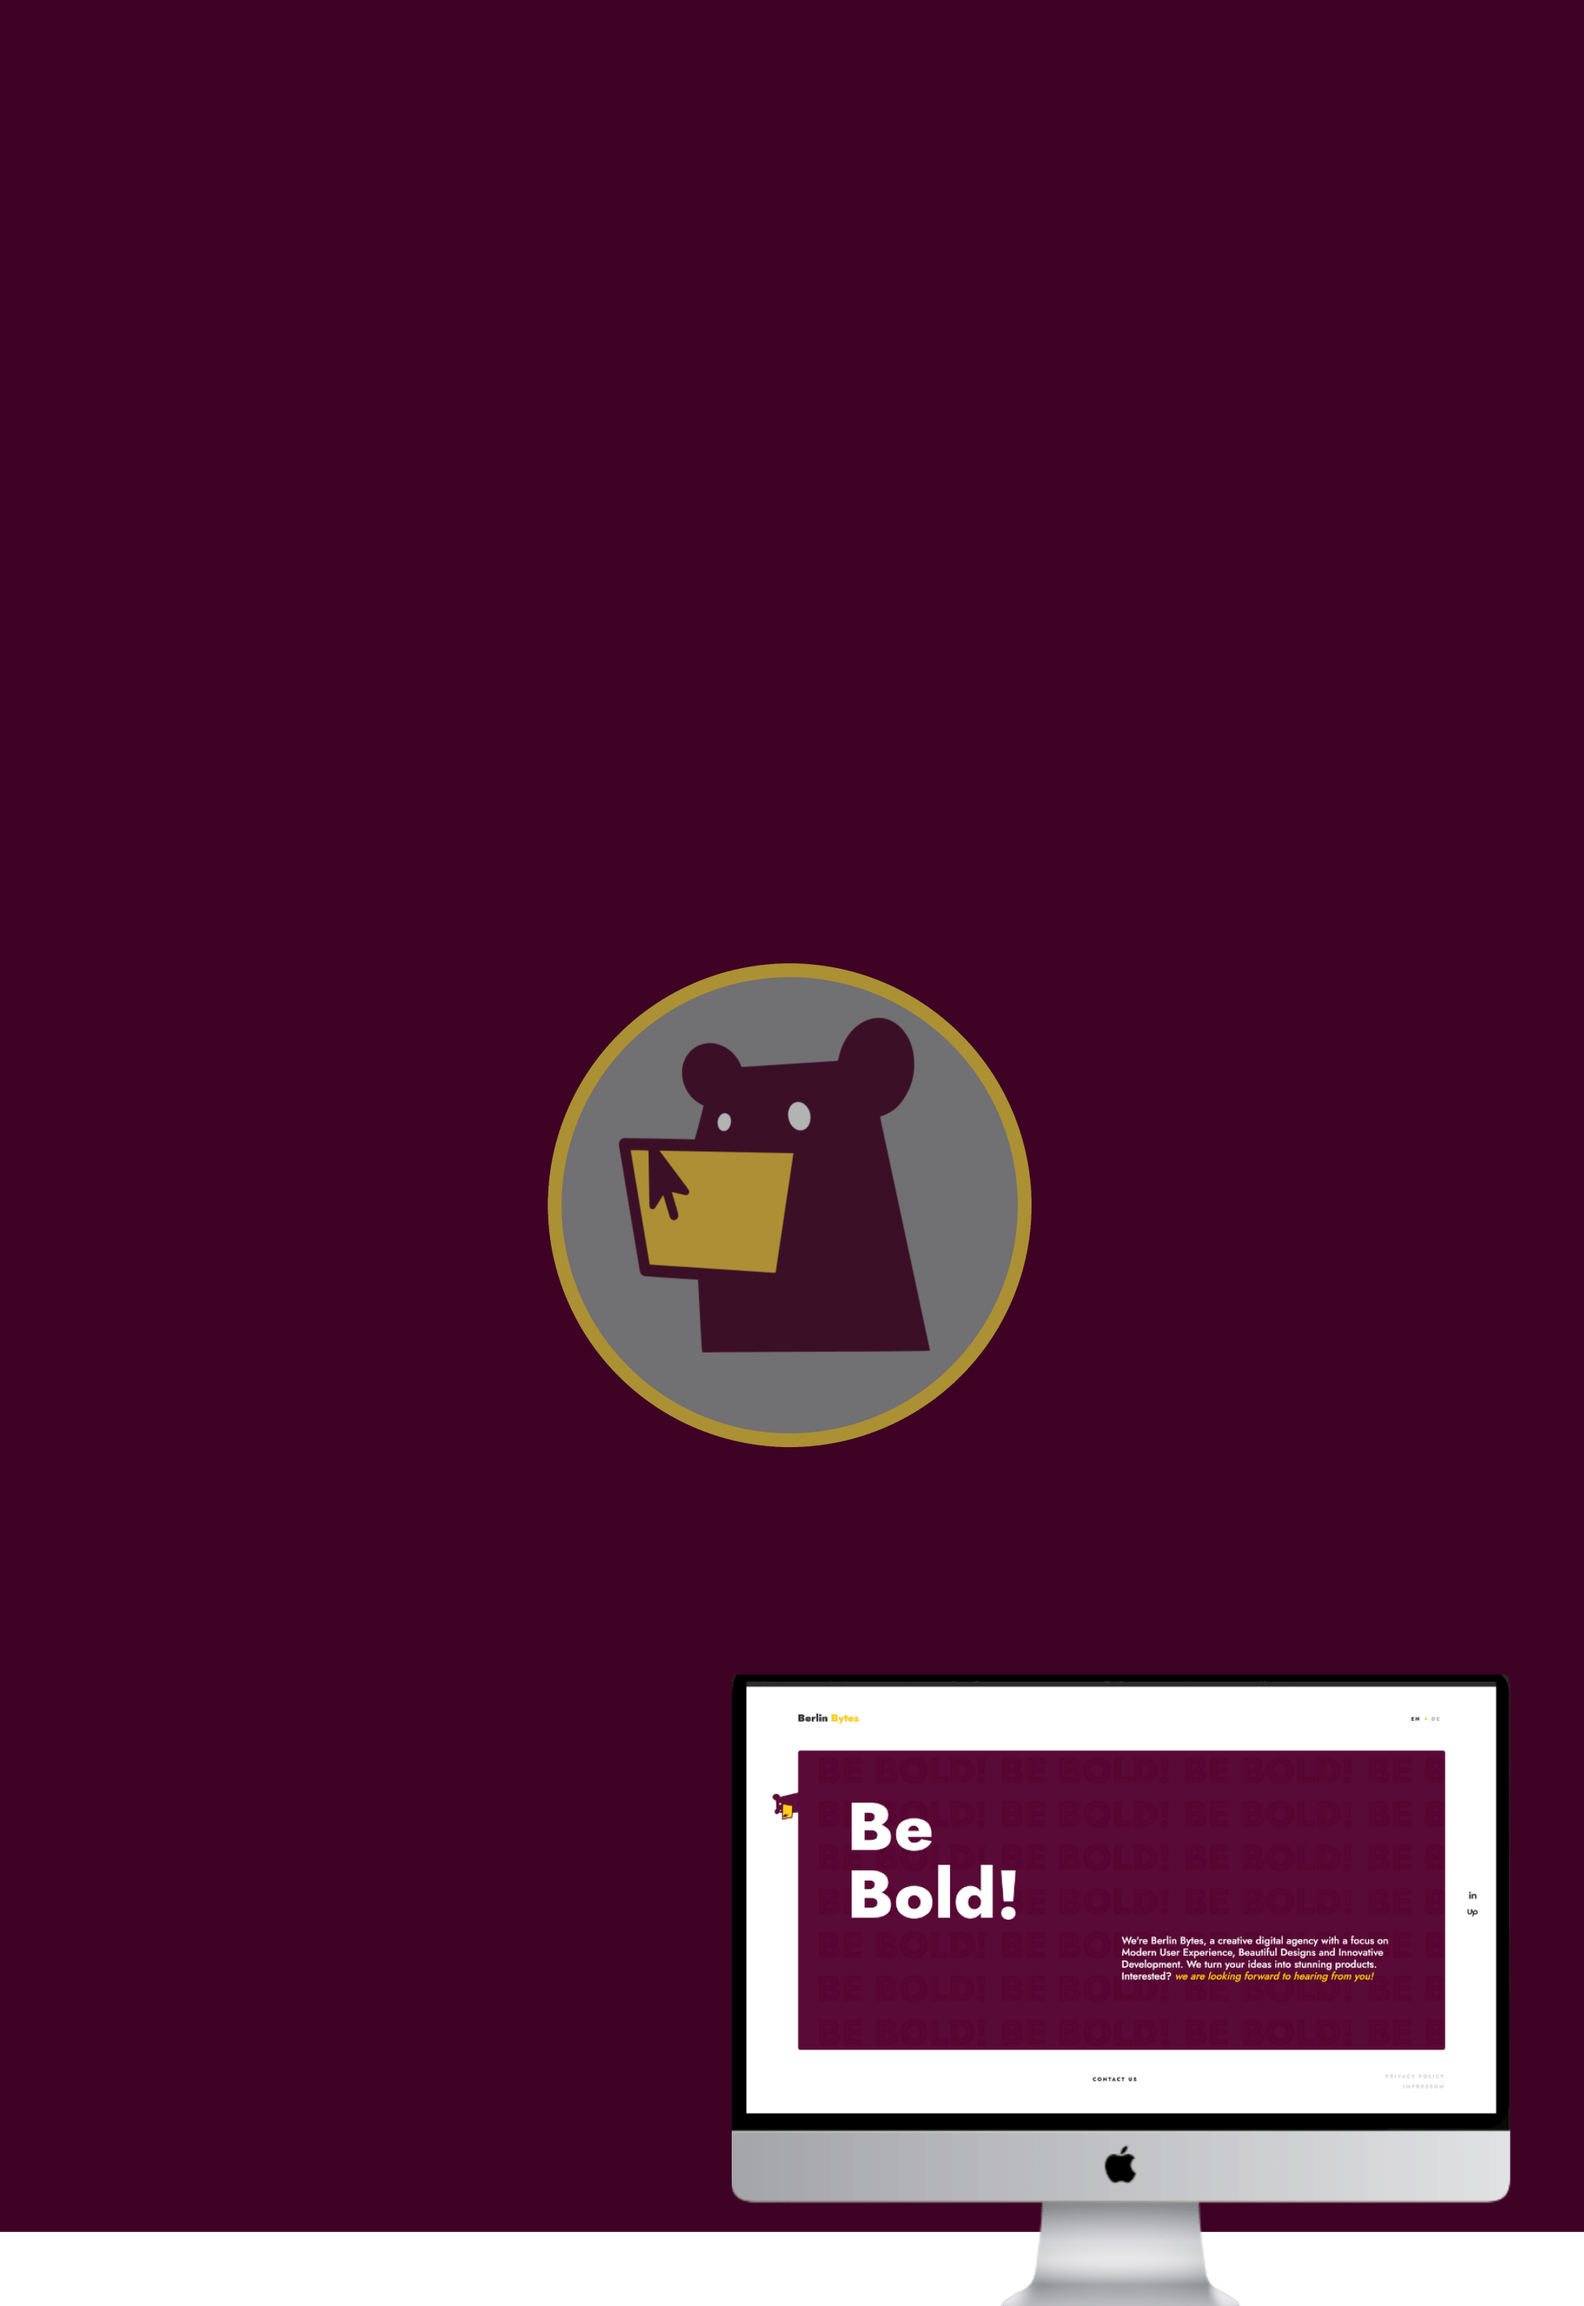
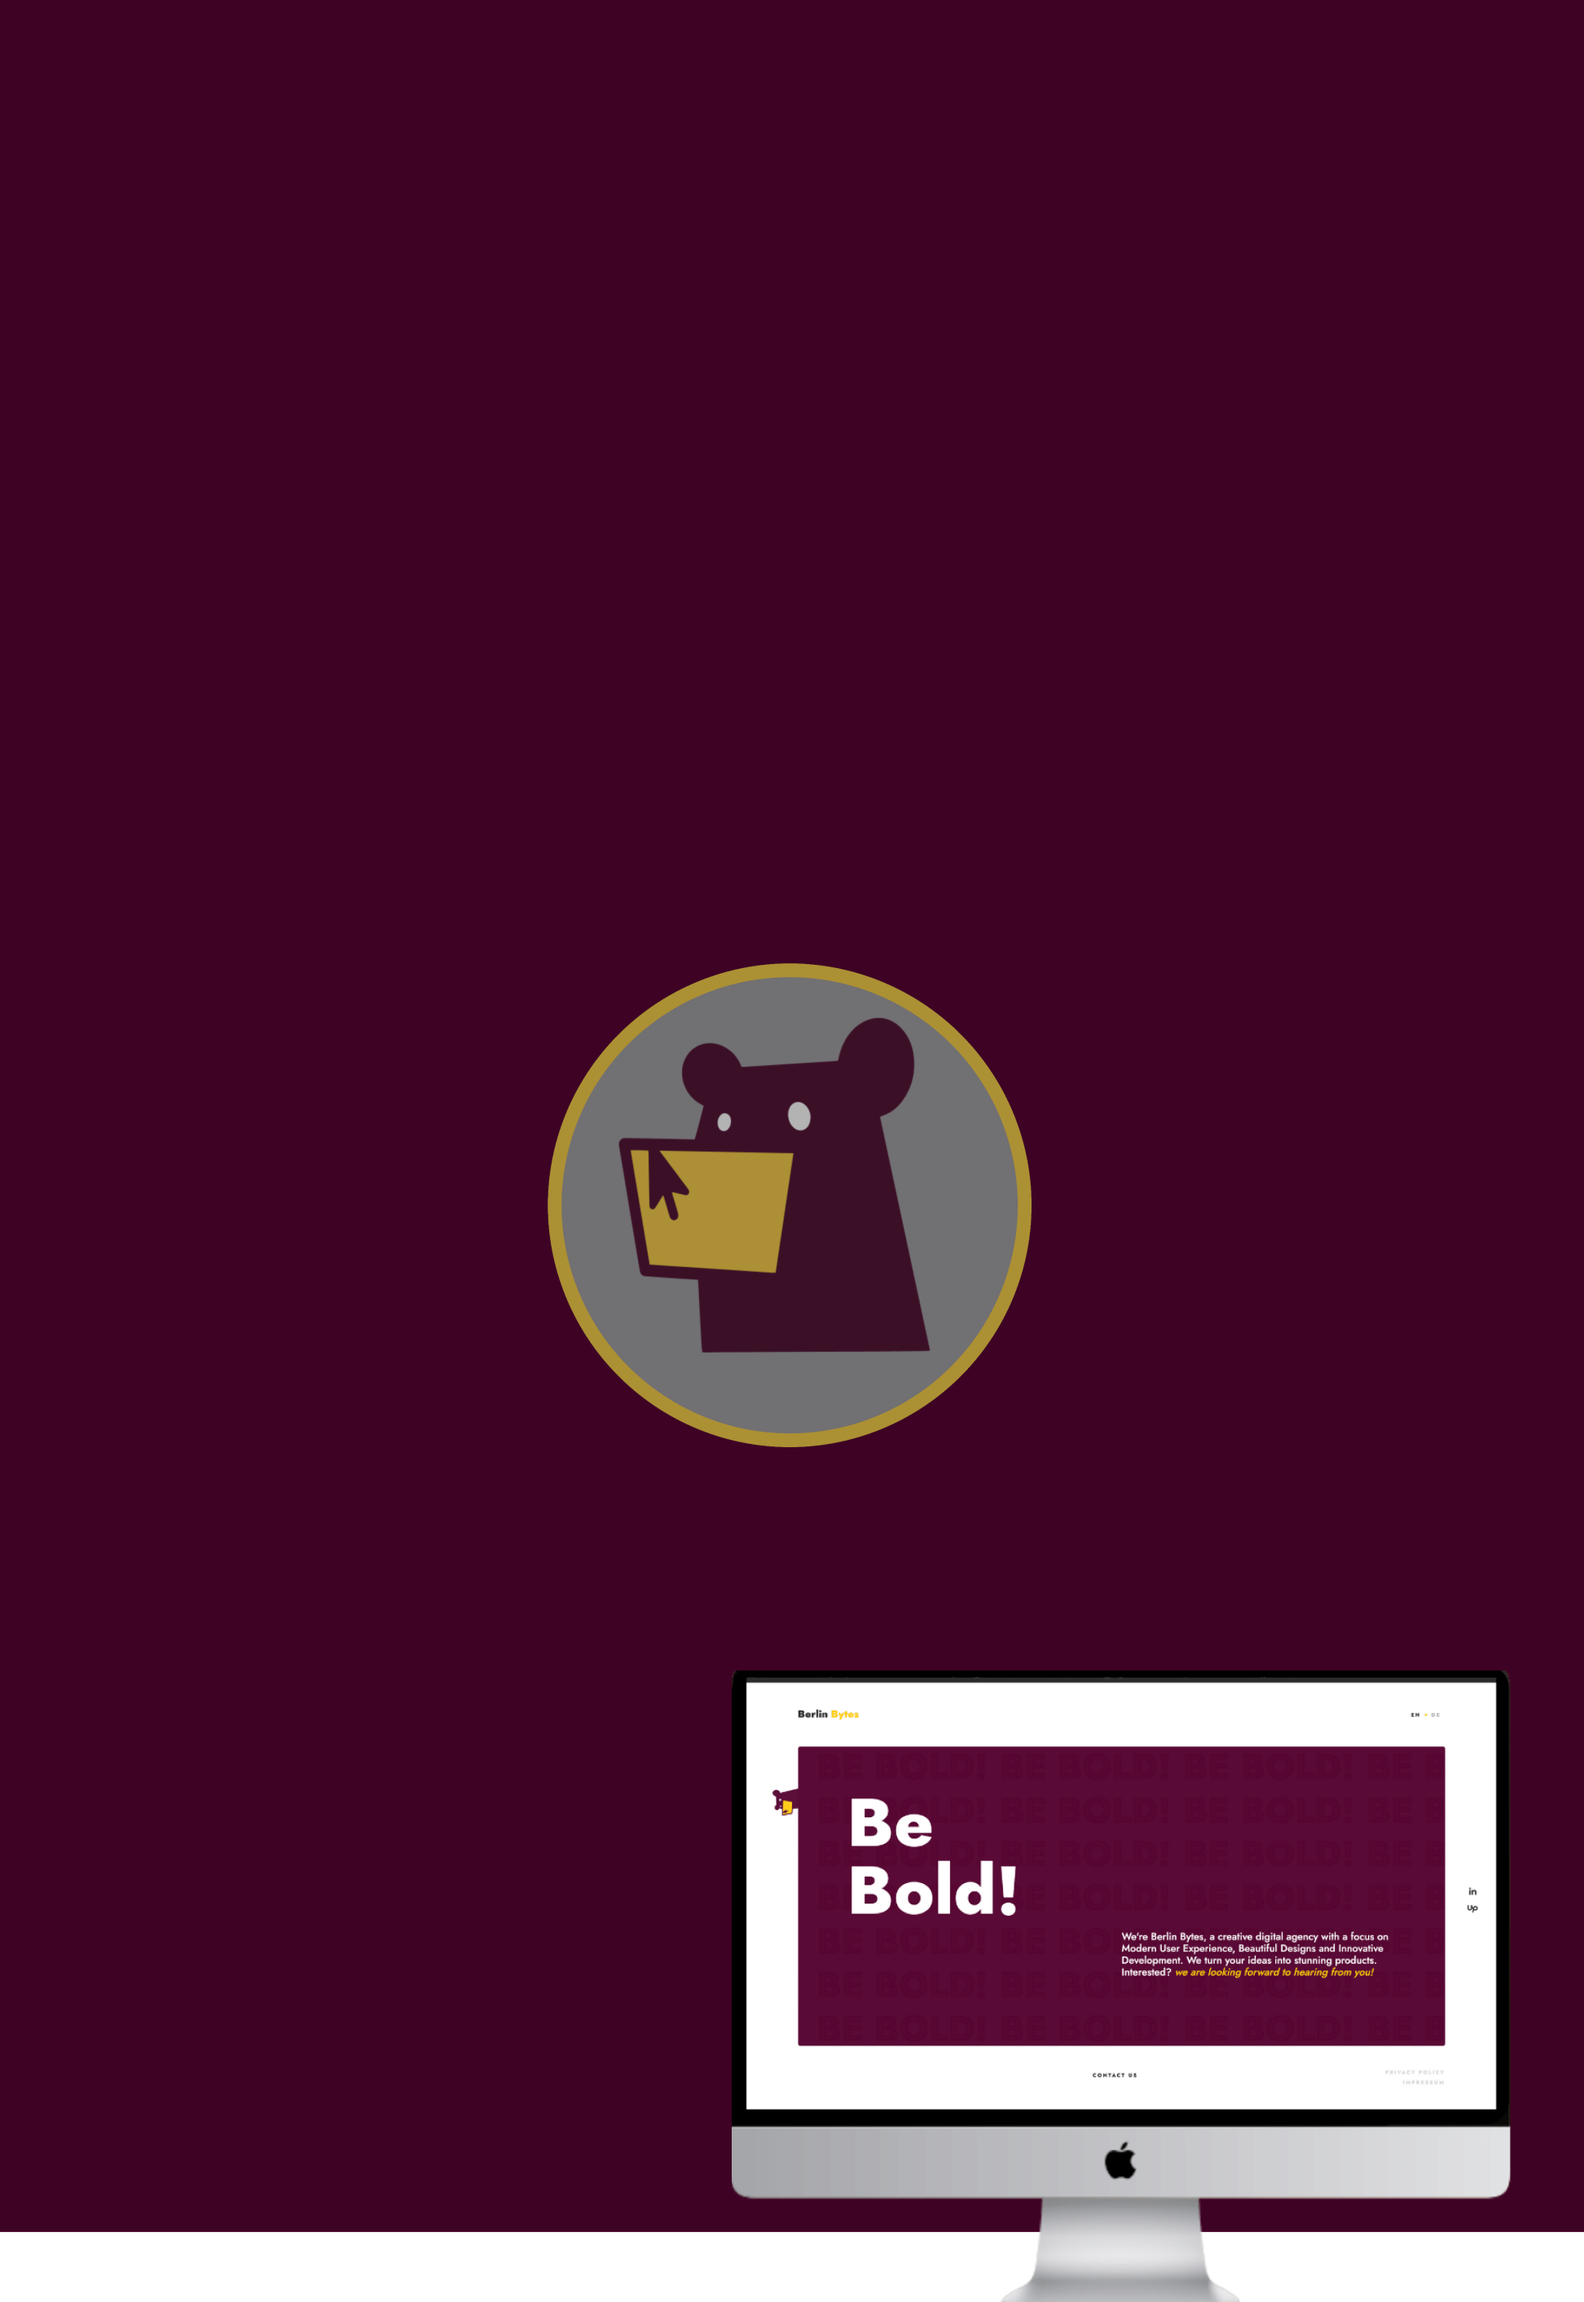
revise portfolio images for mobile, and remove trail

Changed region(s): [[0.7099, 0.8411, 0.8642, 0.8722], [0.5556, 0.7788, 0.5864, 0.8099], [0.4012, 0.4984, 0.4321, 0.5296]]

diff --git a/pages/portfolio.vue b/pages/portfolio.vue
@@ -1352,8 +1352,11 @@ img {
   .project-info-div {
     bottom: 8%;
     width: 20%;
-    left: 9%;
+    left: 10%;
     transform: rotate(0deg);
+  }
+  .trail {
+    display: none;
   }
   .portfolio-background {
     width: 100%;
@@ -1402,7 +1405,7 @@ img {
   @supports (-webkit-appearance: none) {
     .mobile {
       .swiper-slide {
-        width: calc(100% - 20px) !important;
+        width: calc(100% - 50px) !important;
         margin: 0 auto;
         // margin-bottom: 300px !important;
       }
